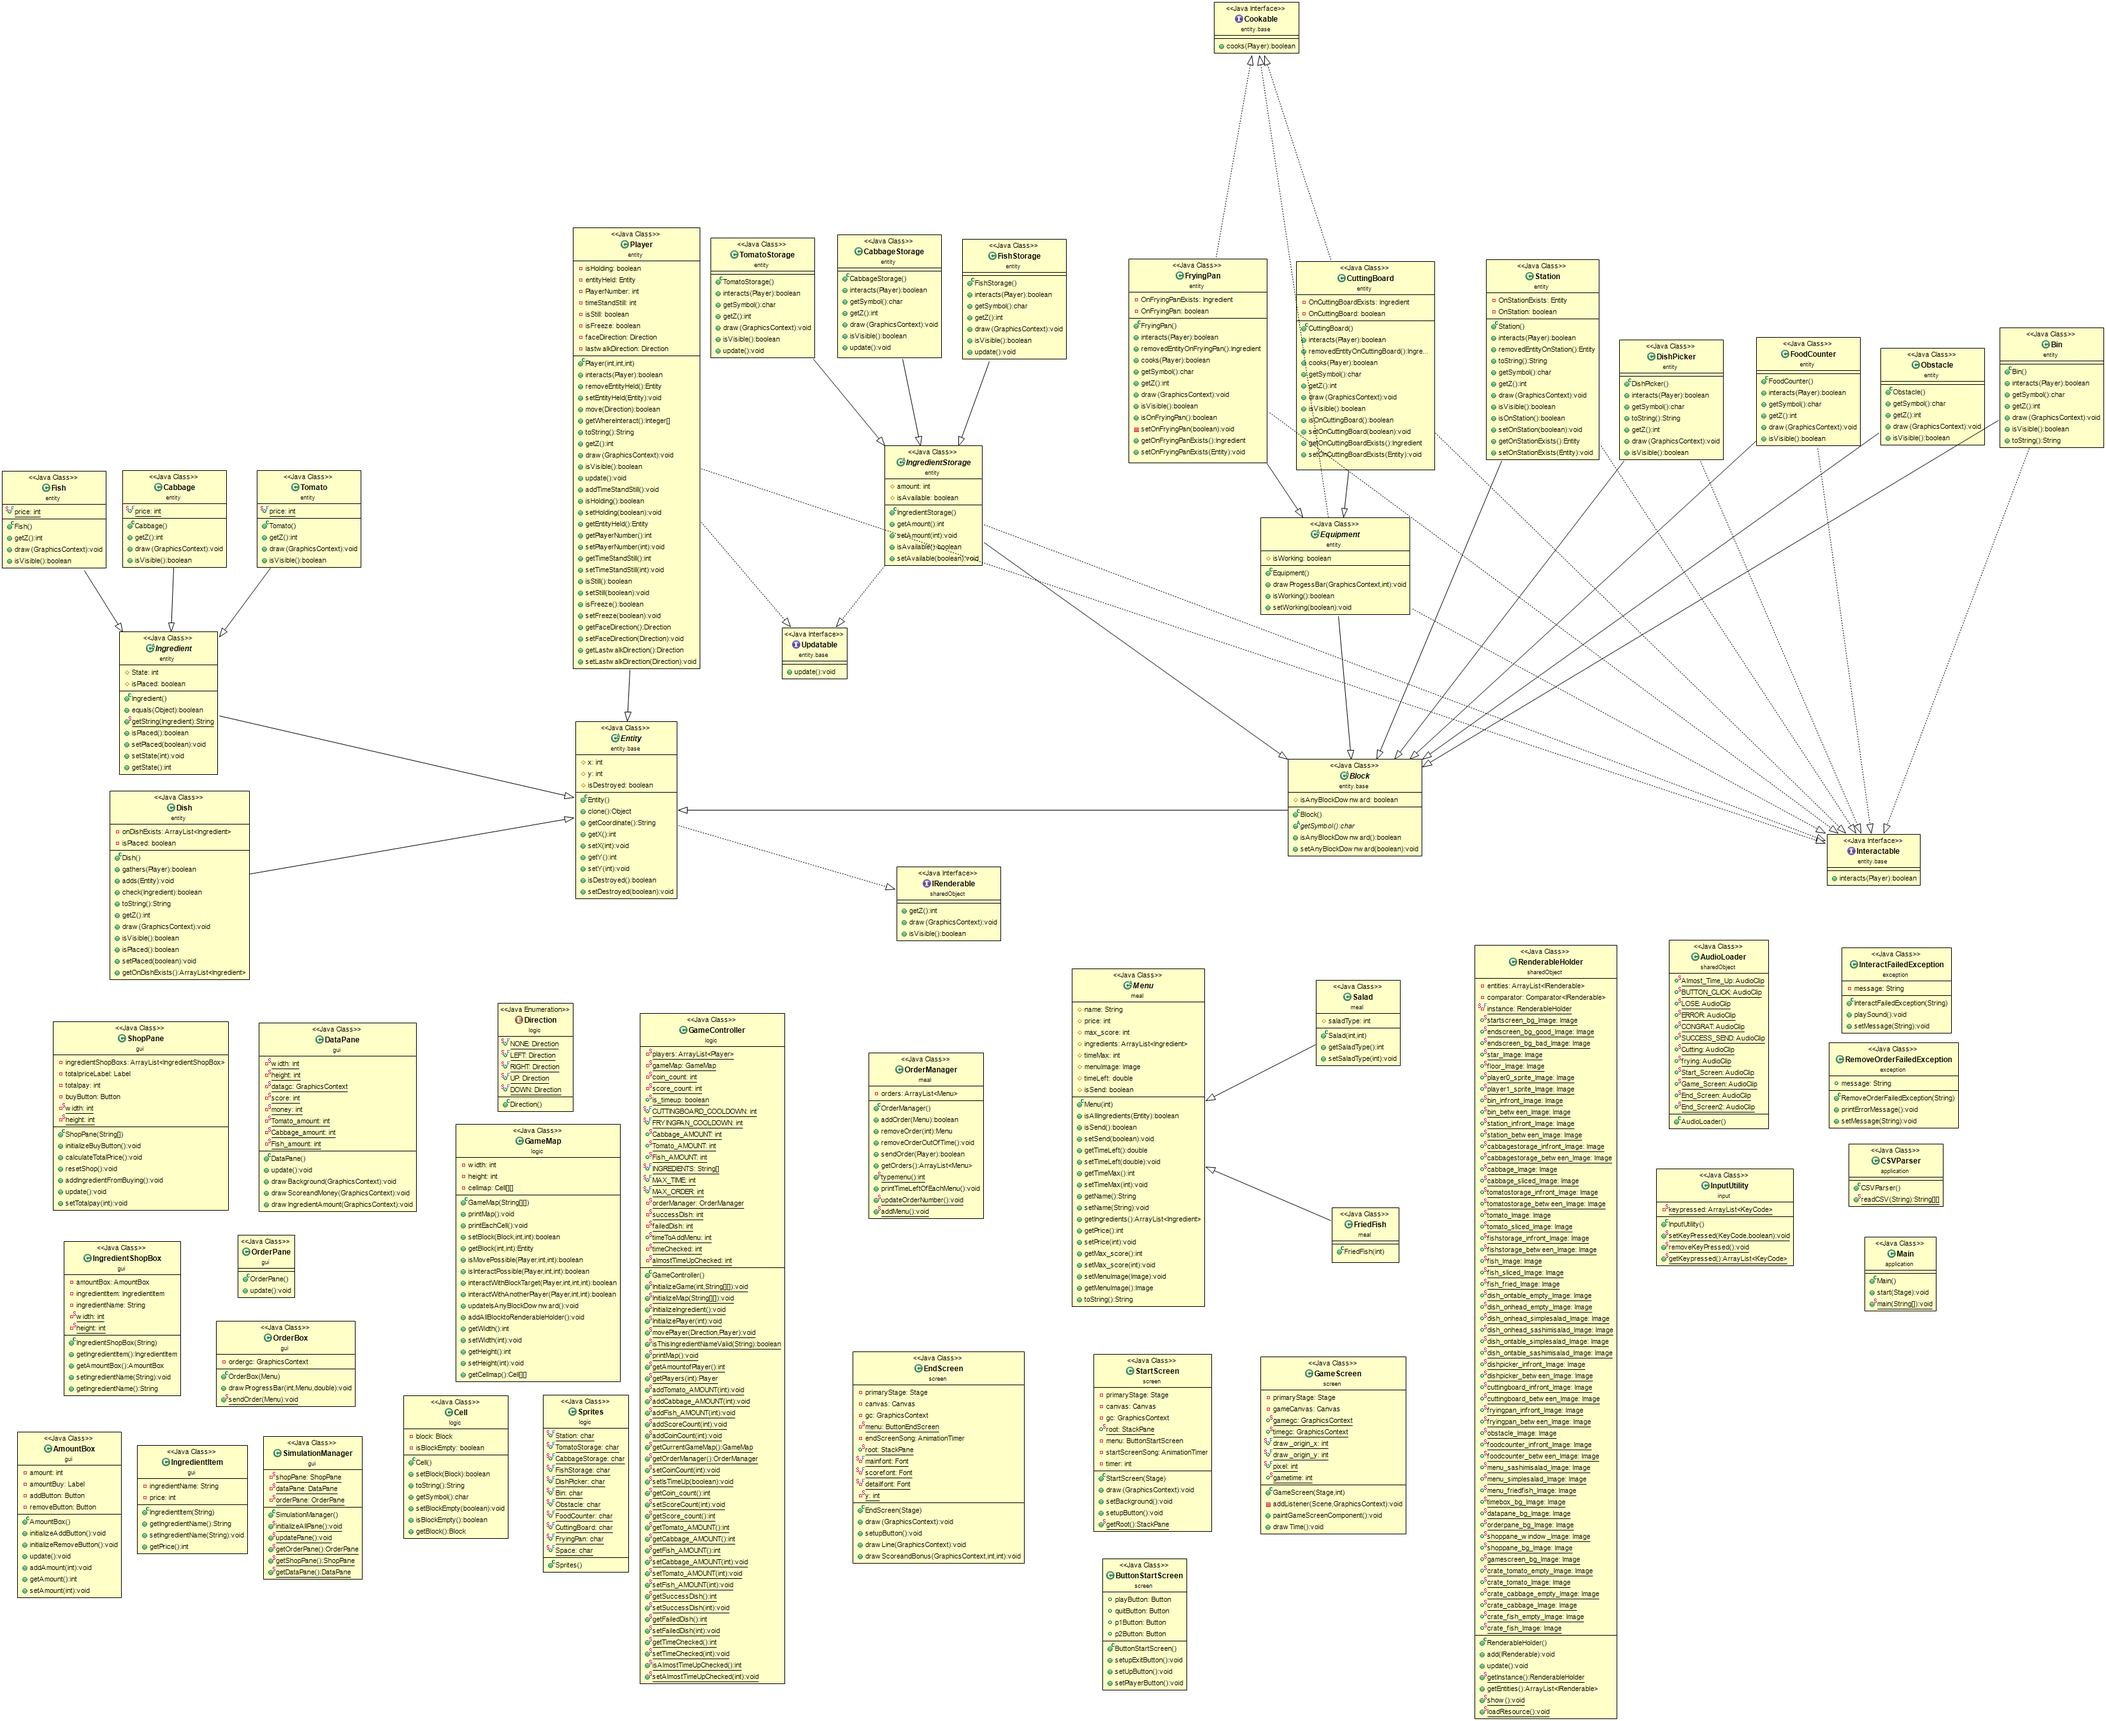
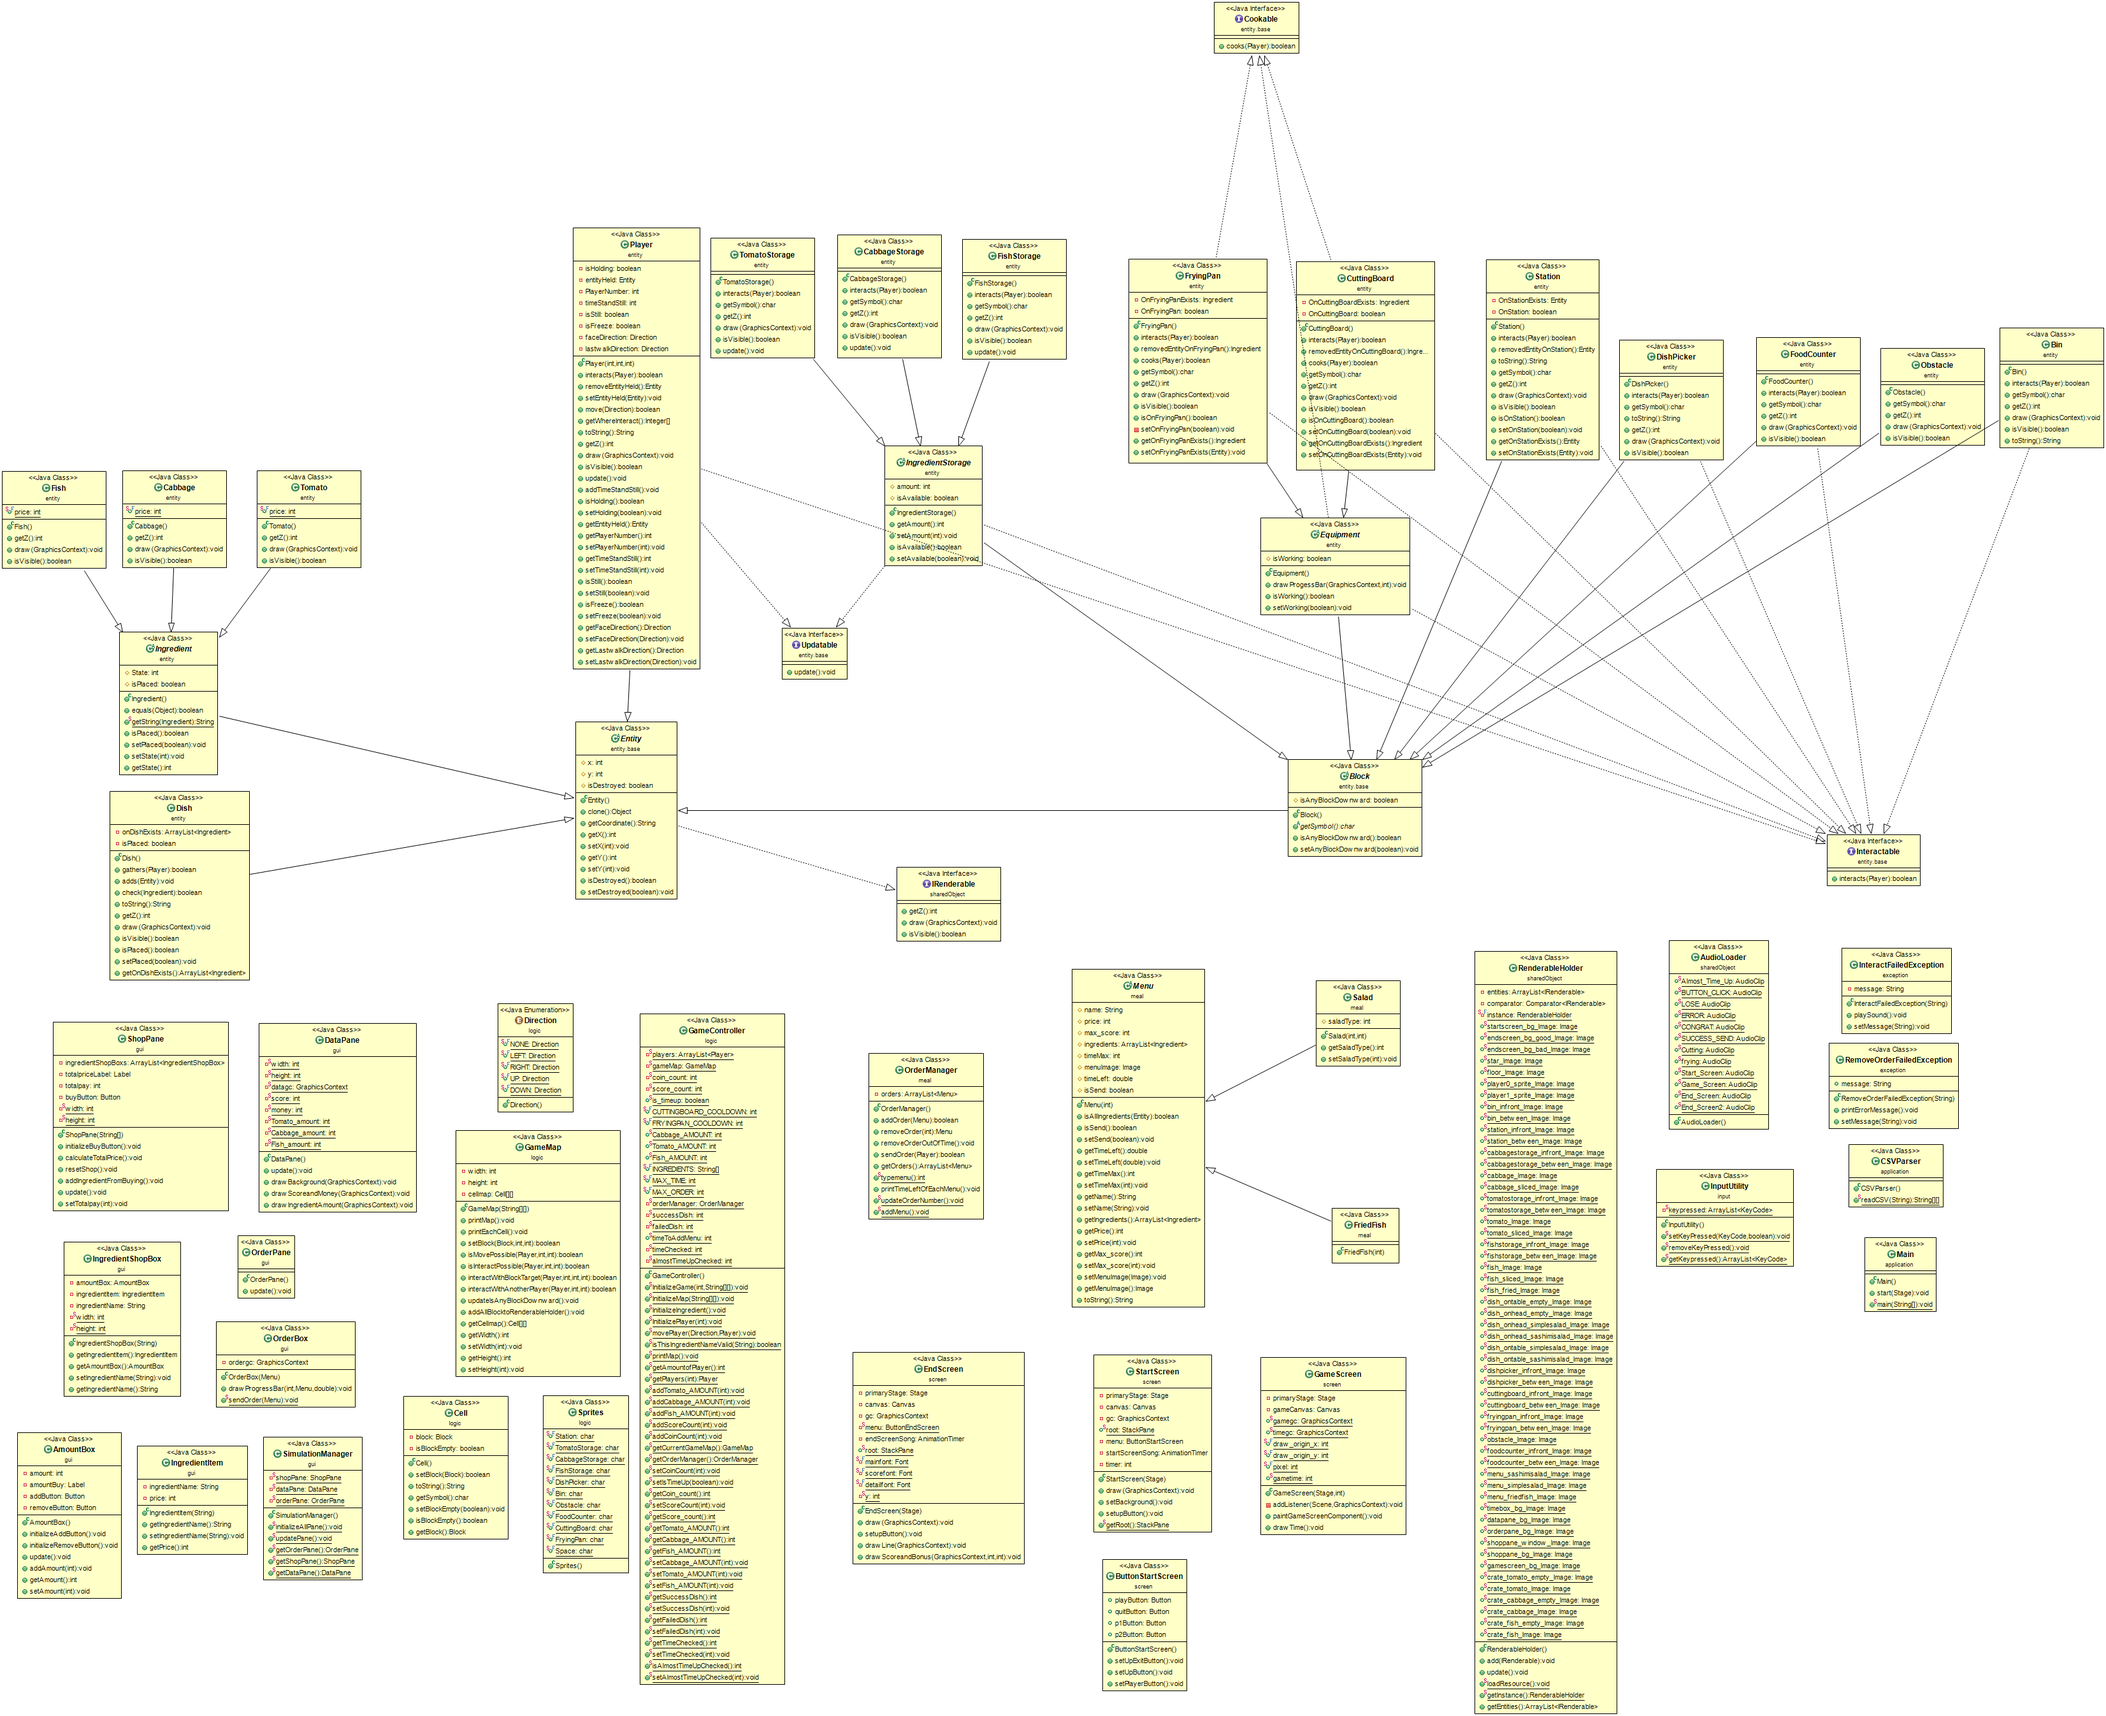
saa

diff --git a/src/screen/ButtonEndScreen.java b/src/screen/ButtonEndScreen.java
@@ -31,7 +31,7 @@ public class ButtonEndScreen extends HBox{
 		setUpButton();
 		getChildren().addAll(quitButton);
 	}
-	public void setupExitButton() {
+	public void setUpExitButton() {
 		quitButton.setOnAction(new EventHandler<ActionEvent>() {
 			
 			@Override

diff --git a/src/screen/ButtonStartScreen.java b/src/screen/ButtonStartScreen.java
@@ -60,7 +60,7 @@ public class ButtonStartScreen extends VBox {
 		getChildren().addAll(playButton, quitButton);
 	}
 
-	public void setupExitButton() {
+	public void setUpExitButton() {
 		quitButton.setOnAction(new EventHandler<ActionEvent>() {
 
 			@Override

diff --git a/src/screen/StartScreen.java b/src/screen/StartScreen.java
@@ -90,7 +90,7 @@ public class StartScreen{
 				startScreenSong.stop();
 				}
 			});
-		menu.setupExitButton();
+		menu.setUpExitButton();
 		setBackground();
 	}
 	public static StackPane getRoot() {

diff --git a/src/screen/EndScreen.java b/src/screen/EndScreen.java
@@ -136,7 +136,7 @@ public class EndScreen {
 	}
 
 	public void setupButton() {
-		menu.setupExitButton();
+		menu.setUpExitButton();
 	}
 	
 	public void drawLine(GraphicsContext gc) {
